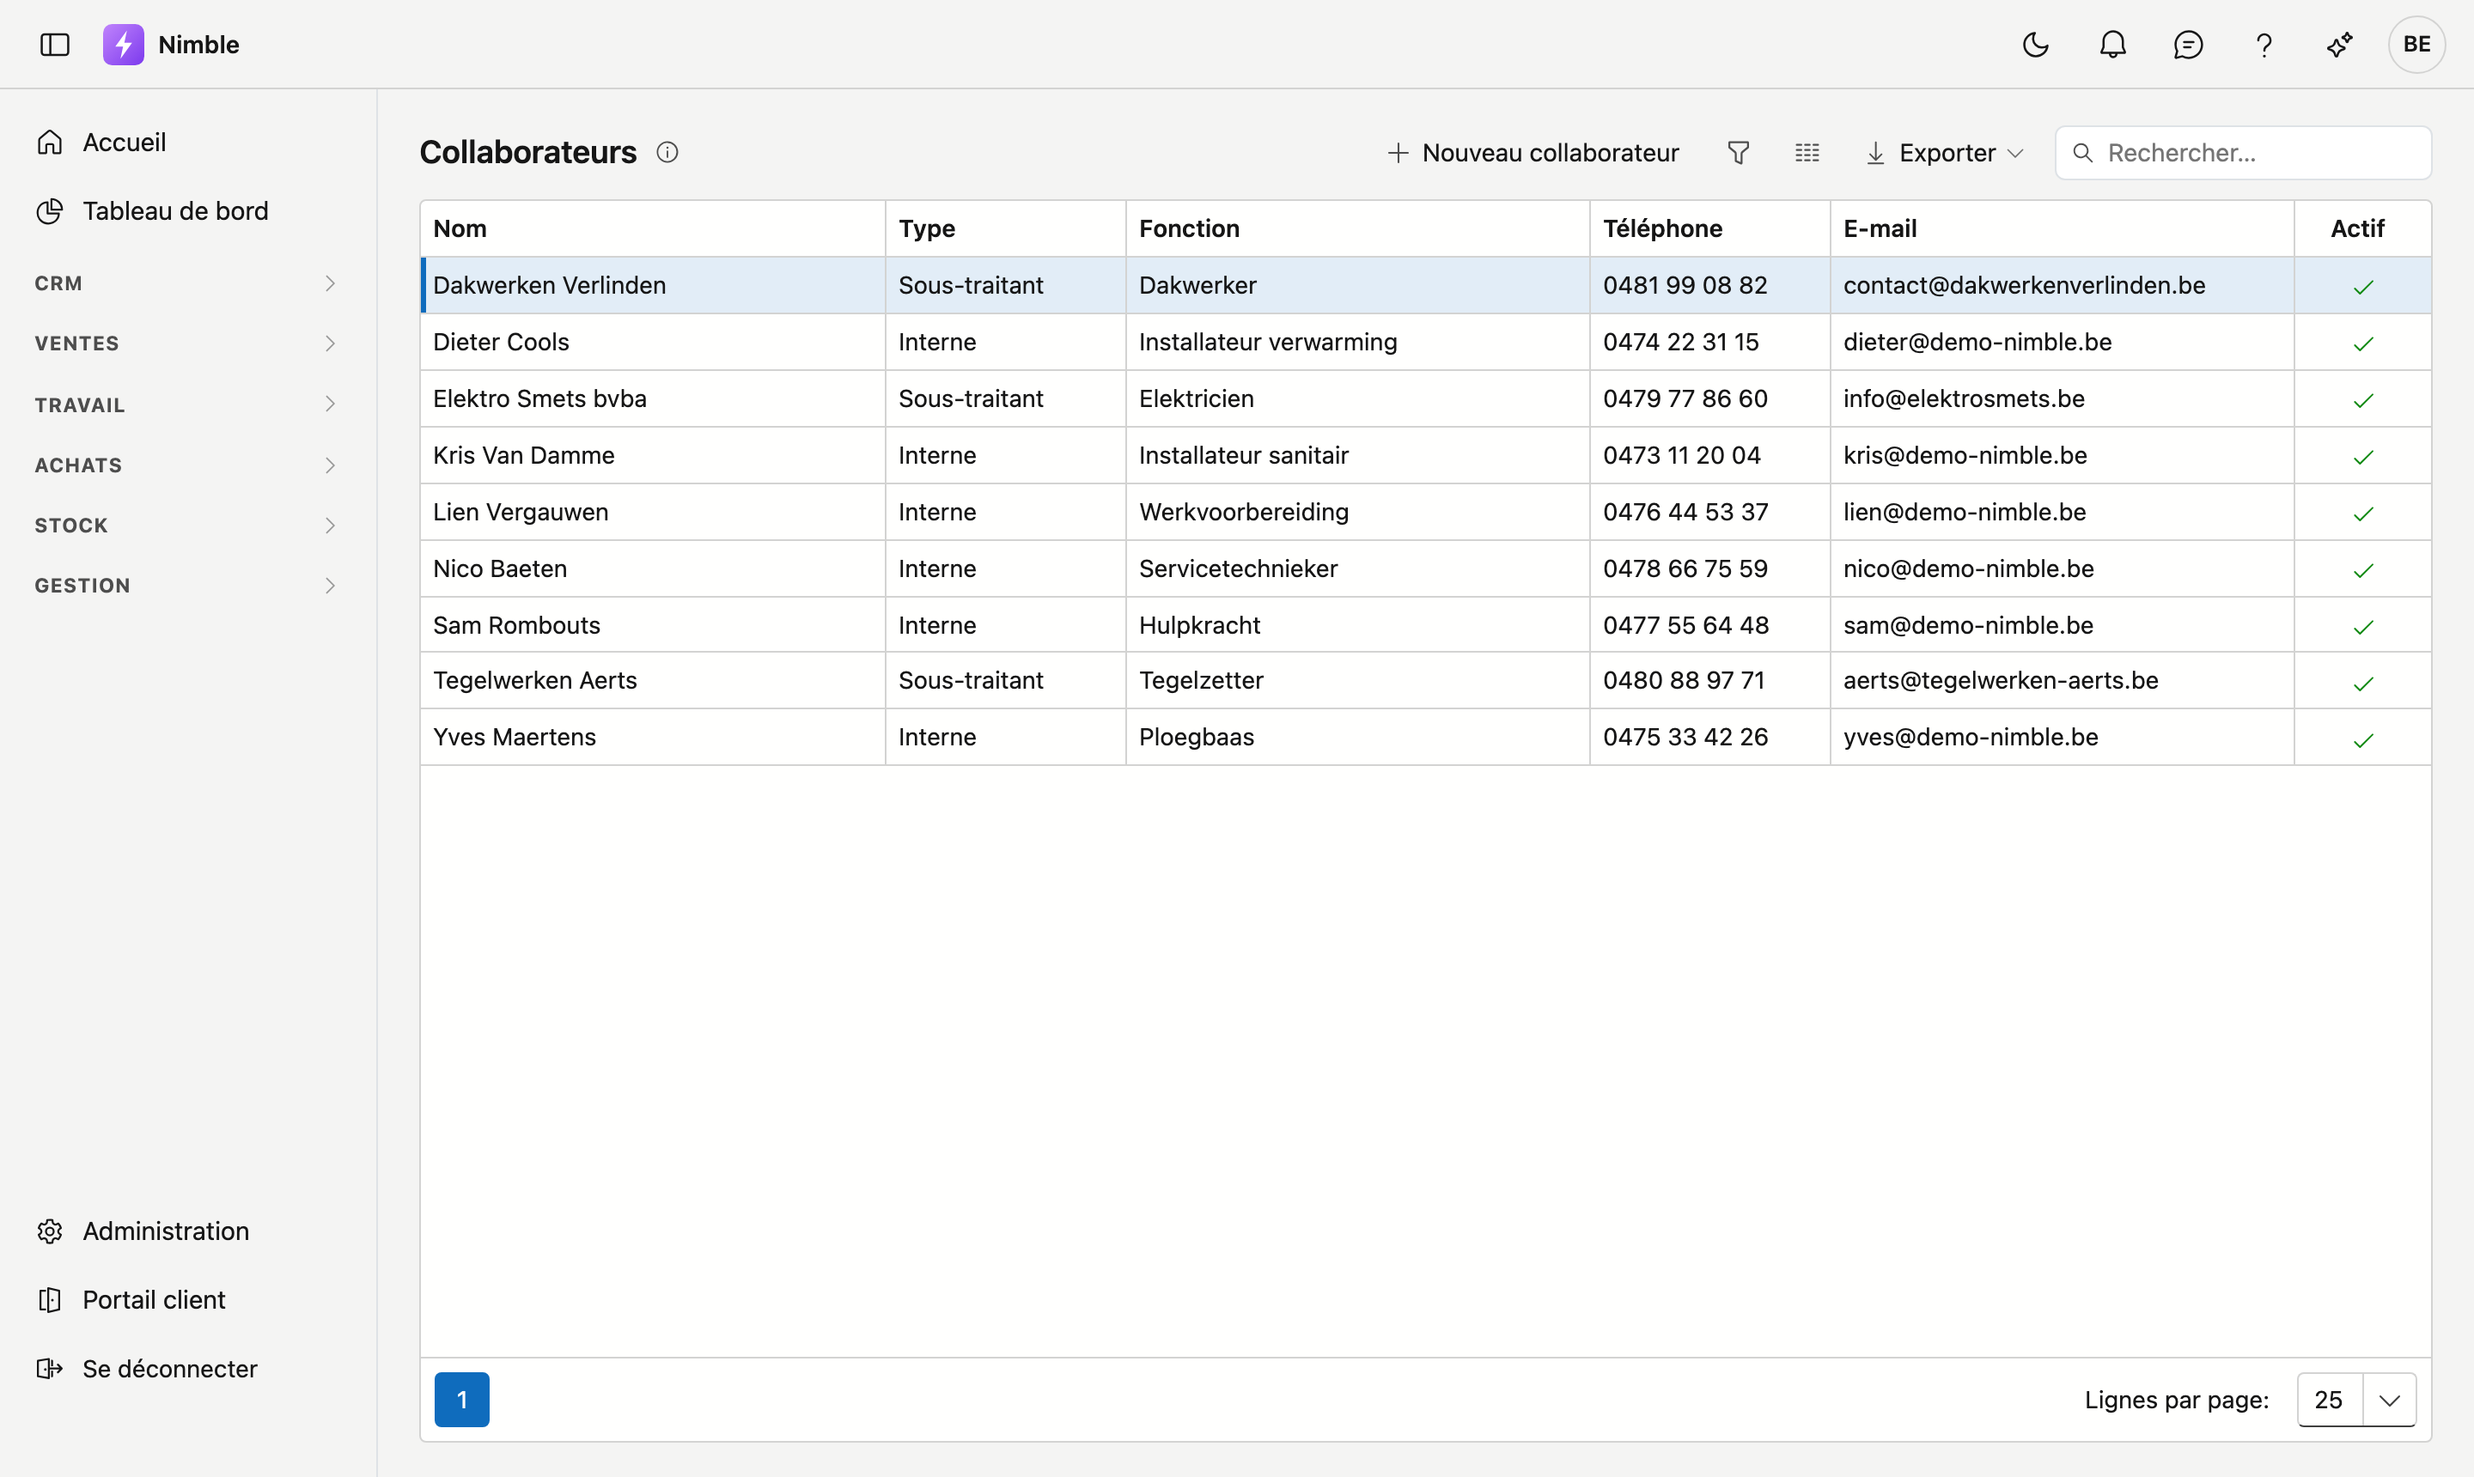
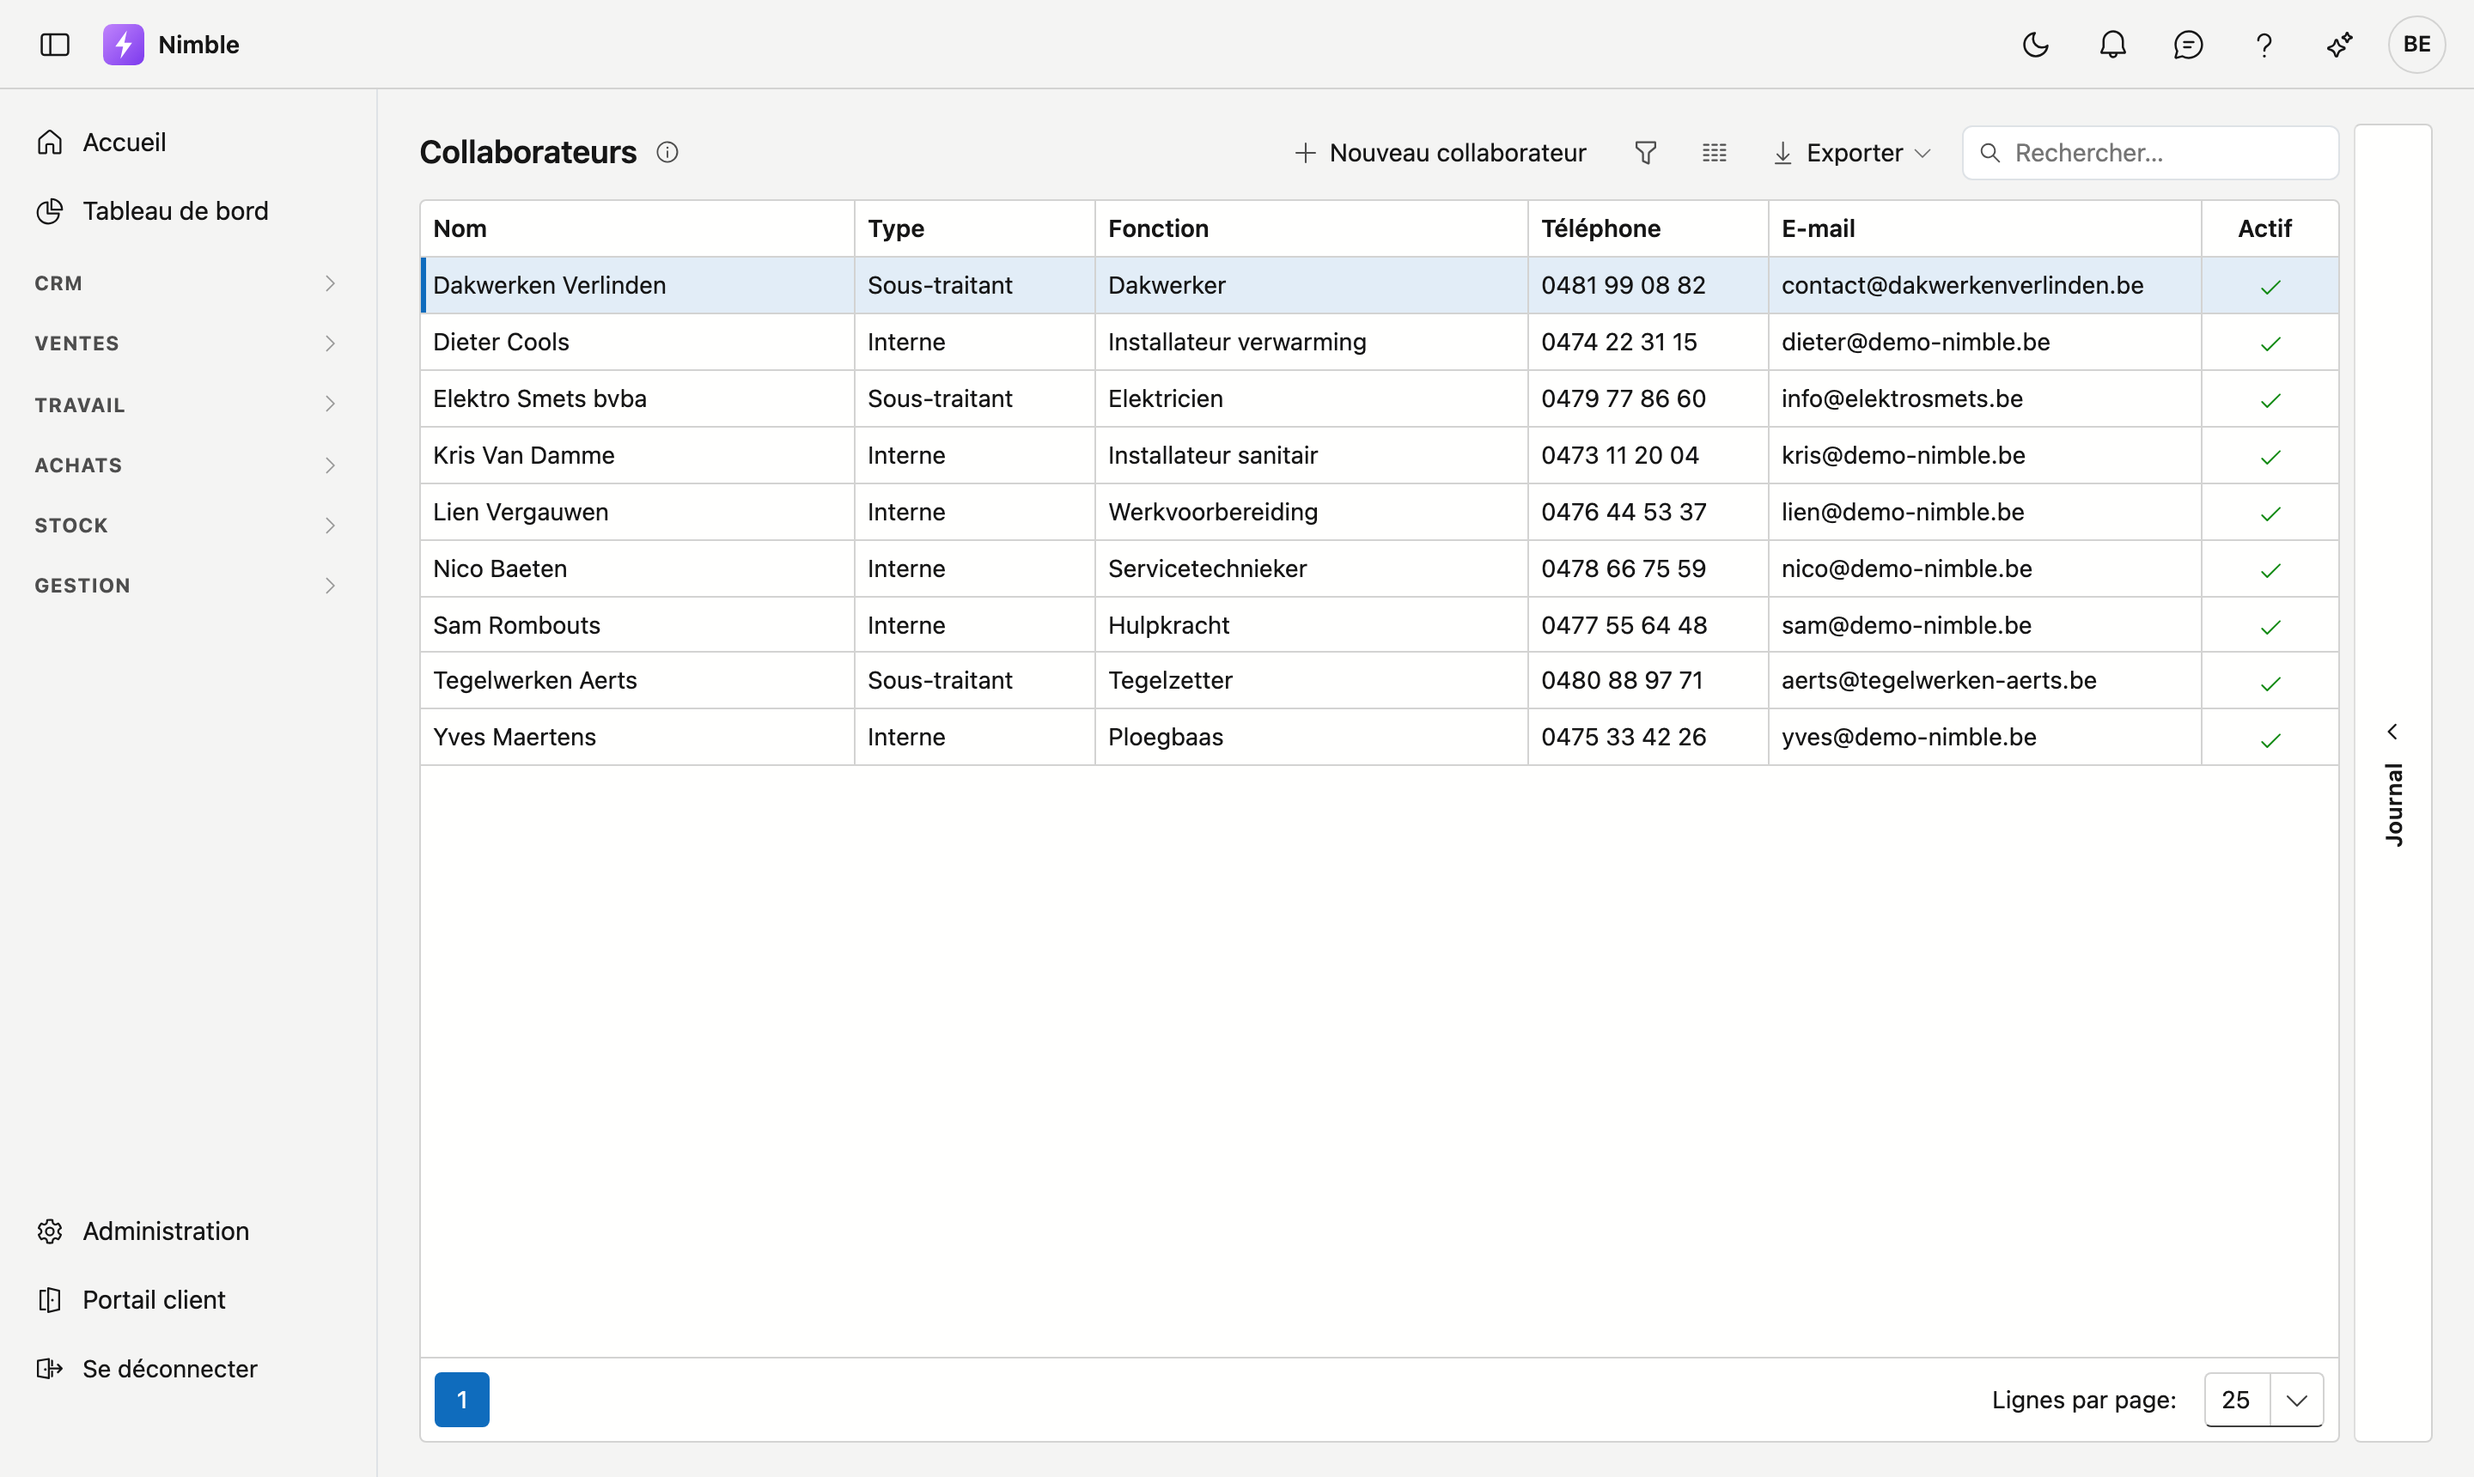
De handleiding noemt de journaal-lade op de medewerkerslijst
Dominique zag dat Medewerkers geen journaal-rail had terwijl Relaties er wel een heeft. Die staat
er nu, dus de handleiding beschrijft hem: klik een rij, klap de lade uit, en je hebt taken,
notities, bijlagen en logboek zonder de fiche te openen.

Het bijschrift van het lijstbeeld is mee aangepast — de rail staat er nu op, en een bijschrift
dat hem niet noemt beschrijft een ander beeld dan de lezer ziet.

diff --git a/docs/work/staff.fr.md b/docs/work/staff.fr.md
@@ -10,7 +10,7 @@ Dans la barre latérale, cliquez sur **Travail → Collaborateurs**.
 
 ## La liste
 
-![La liste Collaborateurs avec les colonnes Nom, Type, Fonction, Téléphone, E-mail et Actif ; collaborateurs internes et sous-traitants s'y côtoient.](../images/medewerkers-lijst-fr.png)
+![La liste Collaborateurs avec les colonnes Nom, Type, Fonction, Téléphone, E-mail et Actif ; collaborateurs internes et sous-traitants s'y côtoient, et à droite figure le tiroir Journal replié.](../images/medewerkers-lijst-fr.png)
 
 La liste affiche six colonnes. Sous **Type** figure la distinction qui se répercute partout :
 
@@ -24,6 +24,11 @@ La liste affiche six colonnes. Sous **Type** figure la distinction qui se réper
 
 Décochez **Actif** pour qui ne travaille plus avec vous. Le collaborateur continue d'exister — ses heures
 sur d'anciennes fiches de travail restent correctes — mais il n'apparaît plus dans les listes de choix.
+
+À droite se trouve le tiroir **Journal**. Il concerne le collaborateur sur lequel se trouve votre curseur :
+cliquez sur une ligne et ouvrez le tiroir avec la flèche. Vous y trouvez ses tâches, notes, pièces jointes
+et son historique — pratique pour conserver une attestation ou un contrat auprès de la bonne personne sans
+ouvrir la fiche.
 
 ## La fiche
 

diff --git a/docs/work/staff.md b/docs/work/staff.md
@@ -9,7 +9,7 @@ Klik in de zijbalk op **Werk → Medewerkers**.
 
 ## De lijst
 
-![De lijst Medewerkers met de kolommen Naam, Type, Functie, Telefoon, E-mail en Actief; interne medewerkers en onderaannemers staan door elkaar.](../images/medewerkers-lijst.png)
+![De lijst Medewerkers met de kolommen Naam, Type, Functie, Telefoon, E-mail en Actief; interne medewerkers en onderaannemers staan door elkaar, en rechts staat de dichtgeklapte lade Journaal.](../images/medewerkers-lijst.png)
 
 De lijst toont zes kolommen. In **Type** ziet u het onderscheid dat overal doorwerkt:
 
@@ -23,6 +23,10 @@ De lijst toont zes kolommen. In **Type** ziet u het onderscheid dat overal doorw
 
 Zet **Actief** uit voor wie niet meer meewerkt. De medewerker blijft dan bestaan — zijn uren op oude
 werkbonnen blijven kloppen — maar hij verschijnt niet meer in de keuzelijsten.
+
+Rechts zit de lade **Journaal**. Die hoort bij de medewerker waarop uw cursor staat: klik een rij aan en
+klap de lade uit met de pijl. U vindt er zijn taken, notities, bijlagen en logboek — handig om een
+attest of een contract bij de juiste persoon te bewaren zonder de fiche te openen.
 
 ## De fiche
 
